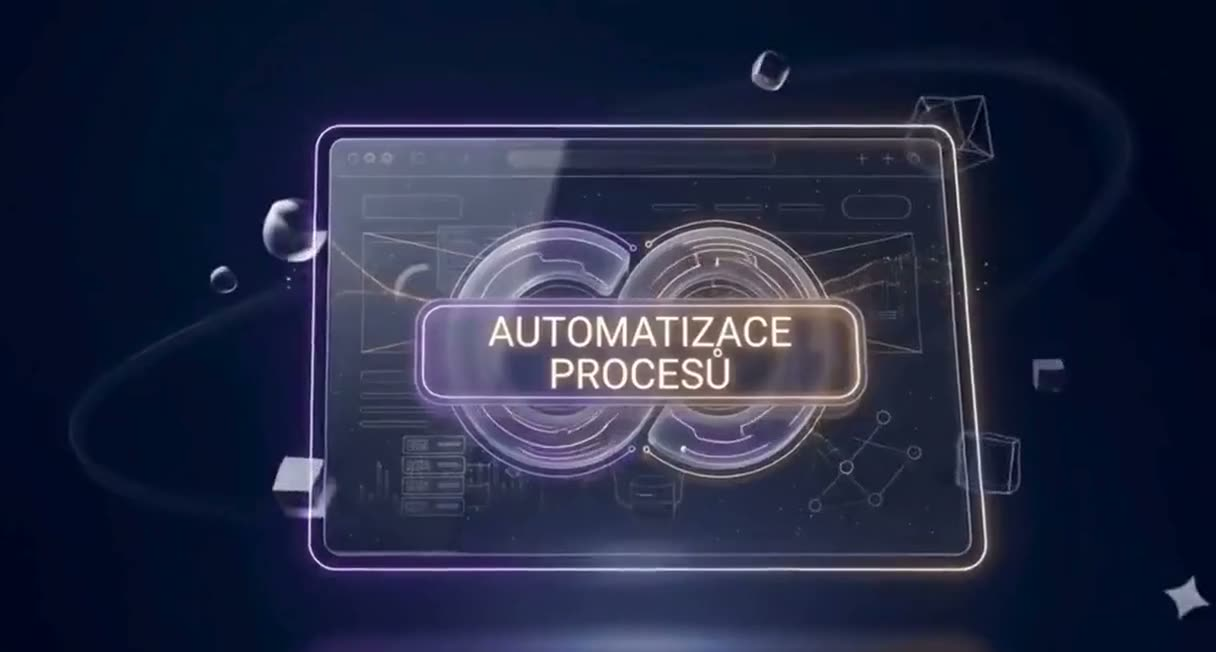
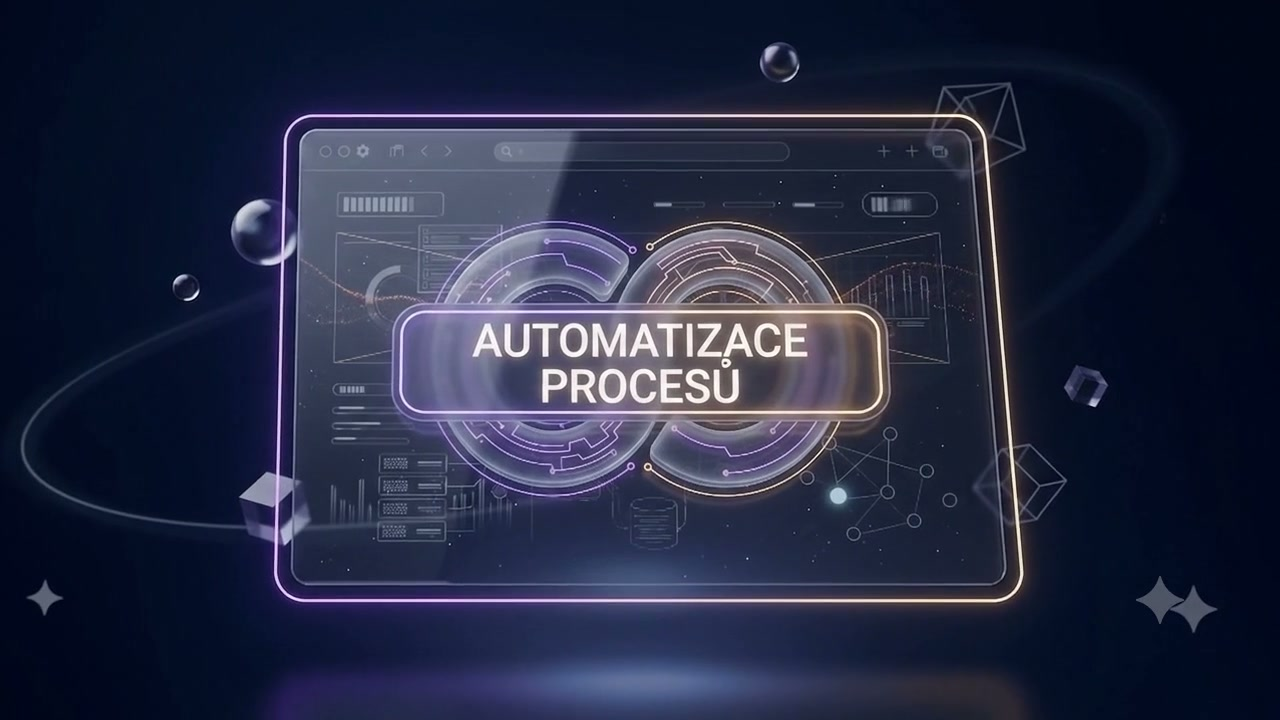
Replace the Automatizace procesů service card with the new hover loop.

diff --git a/index.html b/index.html
@@ -264,7 +264,7 @@
 
             <article class="service-card service-card-accent">
               <div class="service-visual">
-                <video poster="assets/services/posters/service-4-loop.jpg"
+                <video poster="assets/services/posters/service-4-loop.jpg?v=7"
                   class="service-video"
                   loop
                   muted
@@ -273,7 +273,7 @@
                   aria-hidden="true"
                   data-service-slot="4"
                 >
-                  <source data-src="assets/service-4-loop.mp4?v=6" type="video/mp4" />
+                  <source data-src="assets/service-4-loop.mp4?v=7" type="video/mp4" />
                 </video>
               </div>
               <div class="service-content">